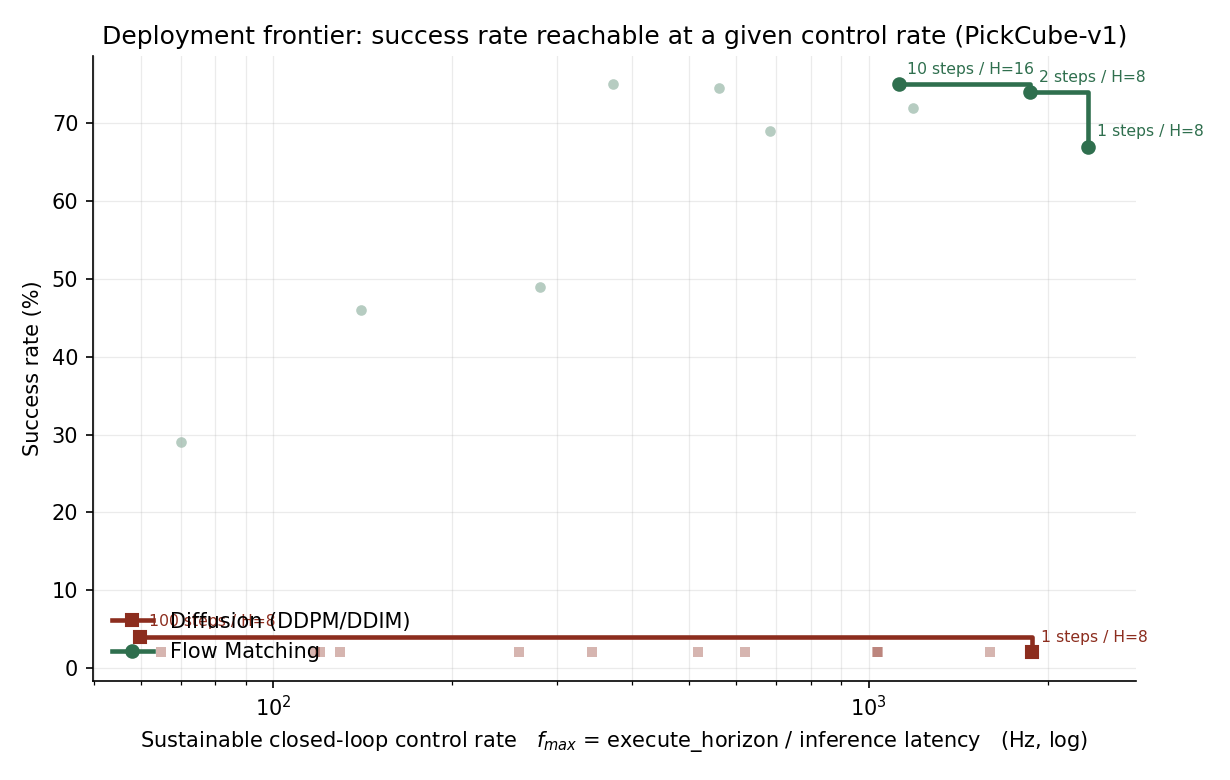
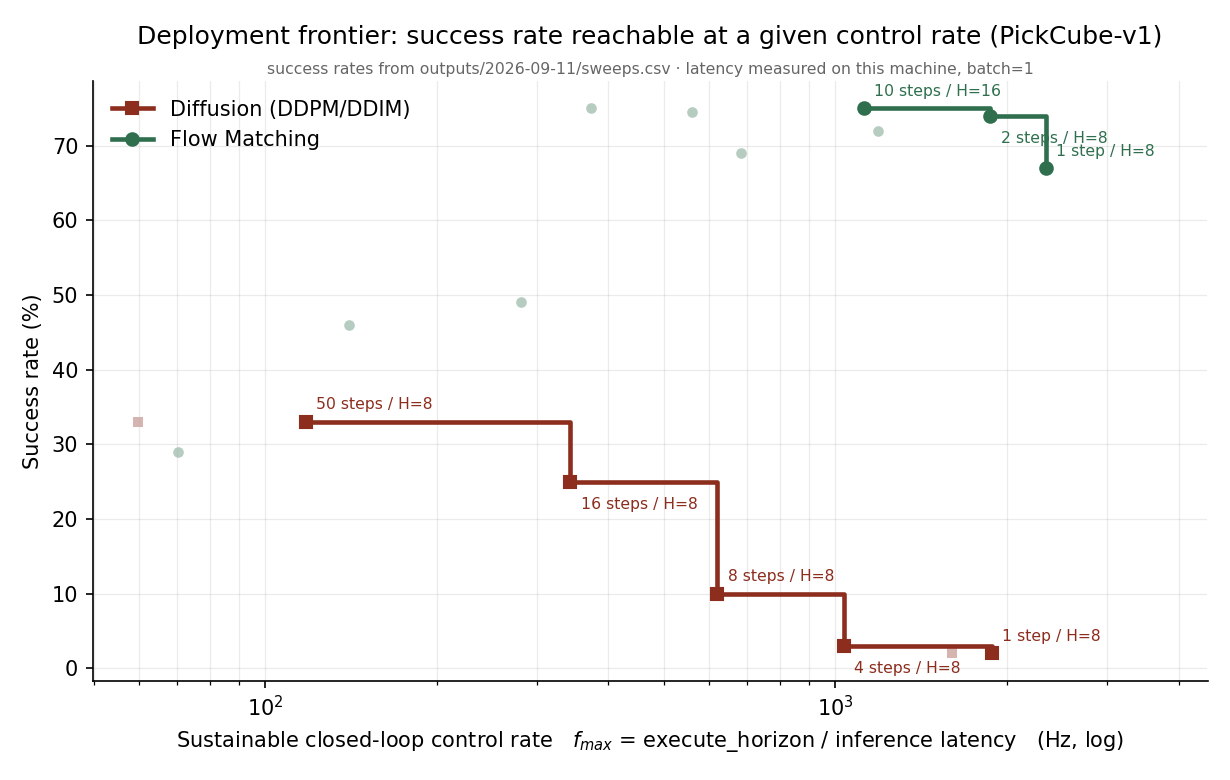
Redraw the deployment frontier from data that postdates the sampling fix
Every DDPM point in the figure was 2%, the value the diffusion arm was pinned
at before the cosine-schedule fix; the surrounding text already quoted the
corrected 33%. Latency depends only on (method, sampling steps), not on the
weights, so --replot-from swaps in the corrected success rates and reuses the
measured latencies instead of occupying the GPU again. The legend also sat on
top of the diffusion curve it was labelling.

diff --git a/scripts/pareto.py b/scripts/pareto.py
@@ -104,29 +104,48 @@ def envelope(points):
 
 def main():
     ap = argparse.ArgumentParser()
-    ap.add_argument("--csv", type=Path, required=True)
-    ap.add_argument("--ckpt", nargs="+", required=True,
+    ap.add_argument("--csv", type=Path)
+    ap.add_argument("--ckpt", nargs="+", default=[],
                     help="model=path 形式，例如 fm=outputs/fmgoal.../ckpt_20000.pt")
     ap.add_argument("--task", default="PickCube-v1")
     ap.add_argument("--fig", type=Path, default=Path("docs/figures/pareto_control_rate.png"))
-    ap.add_argument("--out-csv", type=Path, default=Path("outputs/pareto_points.csv"))
+    ap.add_argument("--out-csv", type=Path)
+    # 只重绘：成功率换一份，延迟沿用已经测好的。
+    # 存在的理由是 2026-09-11 的扩散采样修复（cosine 调度让 ᾱ 末项到 2.4e-7，
+    # DDIM 恰好从那一项起步）。修之前这张图上 DDPM 整条线锁死在 2%，
+    # 修完之后是 2→33%，图却没跟着重画。而延迟只由 (方法, 采样步数) 决定，
+    # 与权重无关，所以没有任何必要为了换一组成功率再占一次 GPU。
+    ap.add_argument("--replot-from", type=Path,
+                    help="从这个 CSV 读成功率，延迟沿用 --latency-csv，不测延迟")
+    ap.add_argument("--latency-csv", type=Path,
+                    default=Path("outputs/pareto_points.csv"),
+                    help="已测好的延迟表，配合 --replot-from 使用")
     args = ap.parse_args()
 
-    ckpts = dict(kv.split("=", 1) for kv in args.ckpt)
-    success = read_success(args.csv, args.task)
-    assert success, f"{args.csv} 里没有 {args.task} 的在线权重结果"
+    src = args.replot_from or args.csv
+    assert src, "--csv 与 --replot-from 至少要给一个"
+    success = read_success(src, args.task)
+    assert success, f"{src} 里没有 {args.task} 的在线权重结果"
 
-    # 每个 (model, n_steps) 只需测一次延迟，与 execute_horizon 无关
-    need = sorted({(m, s) for (m, s, _) in success if m in ckpts})
     latency: dict[tuple[str, int], float] = {}
-    for model in sorted({m for m, _ in need}):
-        policy, _, _ = load_policy(Path(ckpts[model]), use_ema=False)
-        for m, s in need:
-            if m == model:
-                latency[(m, s)] = measure_latency(policy, s)
-                print(f"  延迟 {m:<5} {s:>3} 步 : {latency[(m, s)]:6.2f} ms", flush=True)
-        del policy
-        torch.cuda.empty_cache()
+    if args.replot_from:
+        with open(args.latency_csv, newline="") as fh:
+            for r in csv.DictReader(fh):
+                latency[(r["model"], int(r["n_steps"]))] = float(r["latency_ms"])
+        print(f"沿用 {args.latency_csv} 里已测好的延迟（{len(latency)} 个组合），不重测")
+    else:
+        ckpts = dict(kv.split("=", 1) for kv in args.ckpt)
+        assert ckpts, "要实测延迟就得给 --ckpt"
+        # 每个 (model, n_steps) 只需测一次延迟，与 execute_horizon 无关
+        need = sorted({(m, s) for (m, s, _) in success if m in ckpts})
+        for model in sorted({m for m, _ in need}):
+            policy, _, _ = load_policy(Path(ckpts[model]), use_ema=False)
+            for m, s in need:
+                if m == model:
+                    latency[(m, s)] = measure_latency(policy, s)
+                    print(f"  延迟 {m:<5} {s:>3} 步 : {latency[(m, s)]:6.2f} ms", flush=True)
+            del policy
+            torch.cuda.empty_cache()
 
     rows, by_model = [], defaultdict(list)
     for (model, steps, H), sr in sorted(success.items()):
@@ -138,10 +157,13 @@ def main():
                          max_control_hz=round(f_max, 1), success_rate=sr))
         by_model[model].append((f_max, sr, (steps, H)))
 
-    args.out_csv.parent.mkdir(parents=True, exist_ok=True)
-    with open(args.out_csv, "w", newline="") as fh:
-        w = csv.DictWriter(fh, fieldnames=list(rows[0]))
-        w.writeheader(); w.writerows(rows)
+    out_csv = args.out_csv or (None if args.replot_from
+                               else Path("outputs/pareto_points.csv"))
+    if out_csv:
+        out_csv.parent.mkdir(parents=True, exist_ok=True)
+        with open(out_csv, "w", newline="") as fh:
+            w = csv.DictWriter(fh, fieldnames=list(rows[0]))
+            w.writeheader(); w.writerows(rows)
 
     print(f"\n{'模型':<6}{'采样步':>7}{'执行长度':>9}{'延迟ms':>9}{'可达Hz':>9}{'成功率':>9}")
     print("-" * 50)
@@ -150,11 +172,11 @@ def main():
               f"{r['latency_ms']:>9.2f}{r['max_control_hz']:>9.0f}"
               f"{100*r['success_rate']:>8.0f}%")
 
-    plot(by_model, args.fig, args.task)
-    print(f"\n已写出 {args.out_csv} 与 {args.fig}")
+    plot(by_model, args.fig, args.task, src)
+    print(f"\n已写出 {args.fig}" + (f" 与 {out_csv}" if out_csv else ""))
 
 
-def plot(by_model, path: Path, task: str):
+def plot(by_model, path: Path, task: str, src: Path | None = None):
     import matplotlib
     matplotlib.use("Agg")
     import matplotlib.pyplot as plt
@@ -169,19 +191,30 @@ def plot(by_model, path: Path, task: str):
         ax.plot([p[0] for p in env], [100 * p[1] for p in env], drawstyle="steps-post",
                 color=st["color"], lw=2.2, marker=st["marker"], ms=6, label=st["label"])
         # 只标包络上的点，标全部会糊成一片。BC 是一次前向，没有采样步数可言。
-        for fx, sy, (steps, H) in env:
-            tag = f"H={H}" if model == "bc" else f"{steps} steps / H={H}"
+        # 相邻两点的频率常常差不到一倍，标签同侧排必然叠在一起，所以交替上下。
+        for k, (fx, sy, (steps, H)) in enumerate(env):
+            tag = (f"H={H}" if model == "bc"
+                   else f"{steps} step{'s' if steps > 1 else ''} / H={H}")
             ax.annotate(tag, (fx, 100 * sy), textcoords="offset points",
-                        xytext=(4, 5), fontsize=7.5, color=st["color"])
+                        xytext=(5, 6 if k % 2 == 0 else -13),
+                        fontsize=7.5, color=st["color"])
 
     ax.set_xscale("log")
+    # 右端标签是向右伸的，留出余量，否则最快的那个配置的注释会被裁掉
+    ax.set_xlim(right=ax.get_xlim()[1] * 1.6)
     ax.set_xlabel("Sustainable closed-loop control rate   "
                   r"$f_{max}$ = execute_horizon / inference latency   (Hz, log)")
     ax.set_ylabel("Success rate (%)")
     ax.set_title(f"Deployment frontier: success rate reachable at a given "
-                 f"control rate ({task})")
+                 f"control rate ({task})", pad=18)
+    if src:
+        ax.text(0.5, 1.012, f"success rates from {src} · latency measured "
+                f"on this machine, batch=1", transform=ax.transAxes,
+                ha="center", fontsize=7.5, color="#666")
     ax.grid(alpha=0.25, which="both", lw=0.6)
-    ax.legend(frameon=False, loc="lower left")
+    # 图例放左上：两条包络一条在右上、一条在左下，左上是唯一不压数据的角。
+    # 原来的 "lower left" 正好盖住扩散那条线和它最左端的标签。
+    ax.legend(frameon=False, loc="upper left")
     ax.spines[["top", "right"]].set_visible(False)
     fig.tight_layout()
     path.parent.mkdir(parents=True, exist_ok=True)
